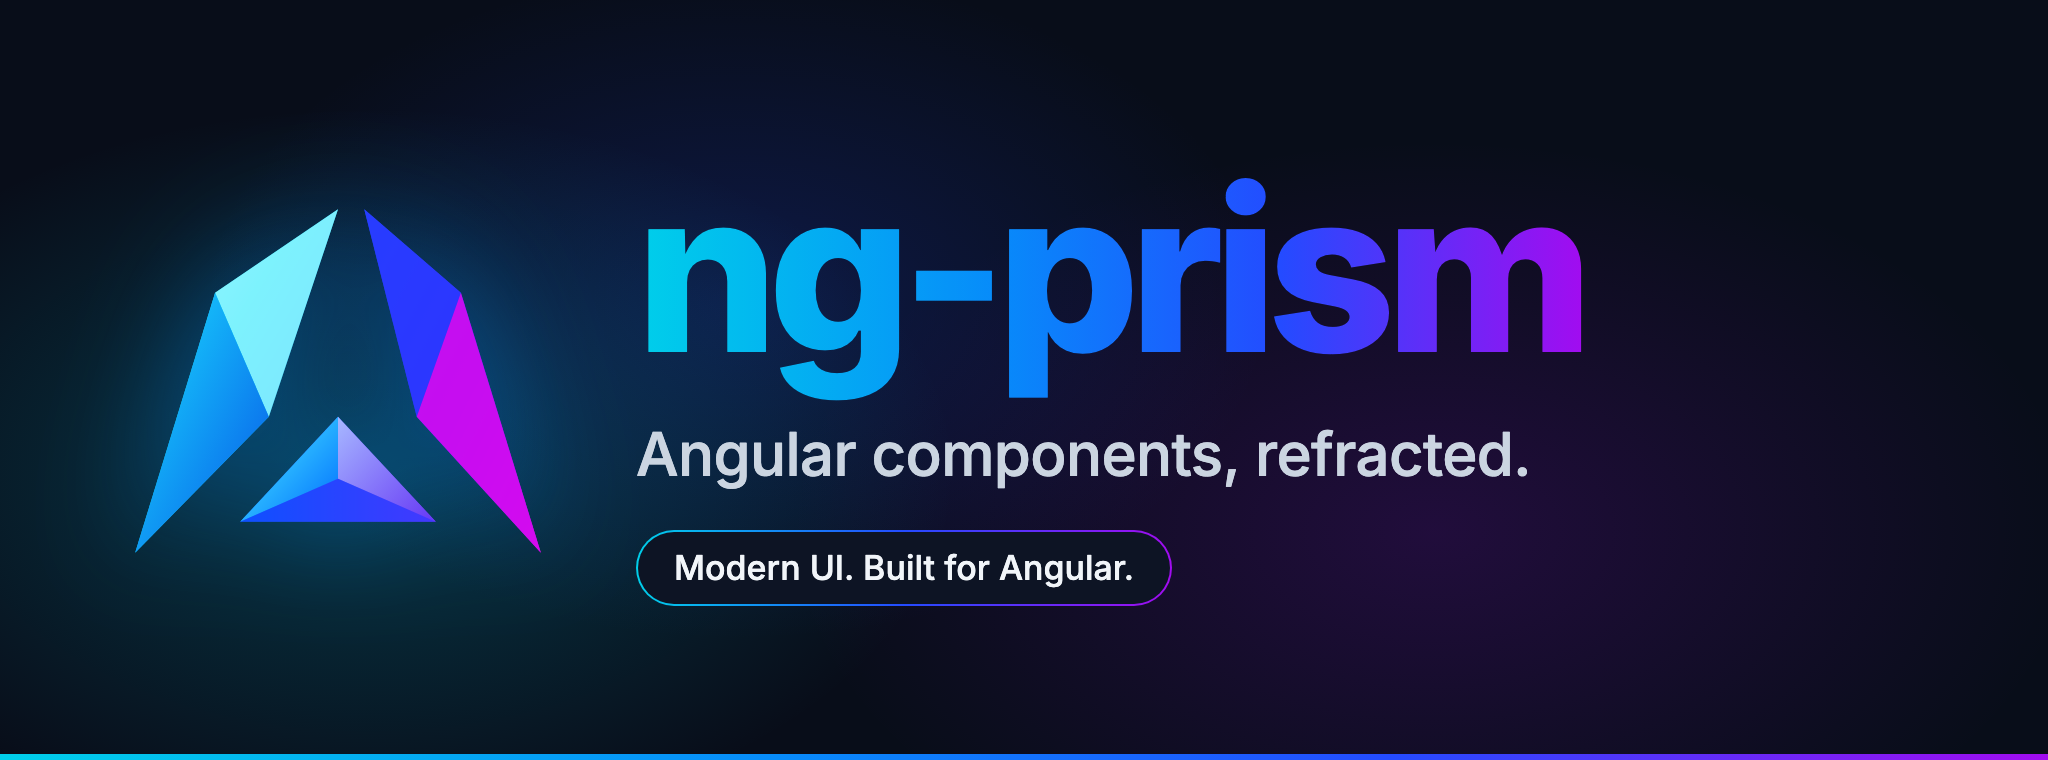
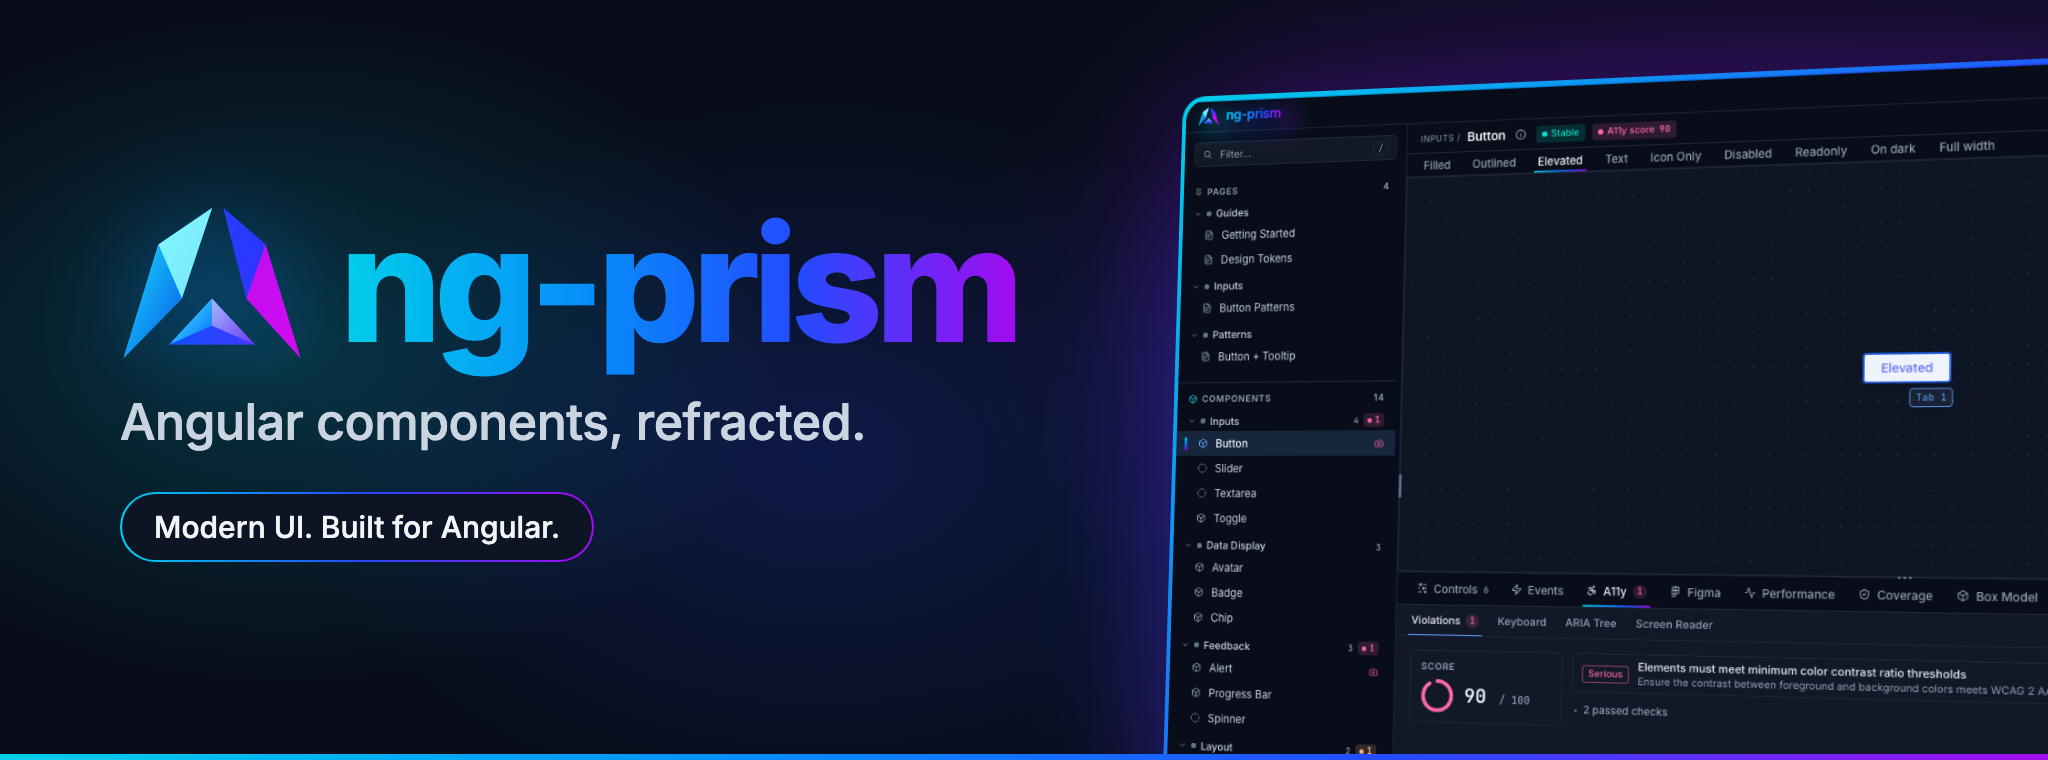
docs(brand): README cover with the new shell
The cover shows the dark shell again, turned towards the brand on the right
and running off the edges, as the old cover did. The wordmark and the mark
share a row to make room. The app picture is a committed screenshot of the
demo styleguide, so the render script stays offline.

diff --git a/docs/assets/brand/cover.html b/docs/assets/brand/cover.html
@@ -20,11 +20,10 @@
             .cover {
                 position: relative;
                 display: flex;
-                gap: 44px;
                 align-items: center;
                 width: 1024px;
                 height: 380px;
-                padding: 0 64px;
+                padding: 0 0 0 60px;
                 overflow: hidden;
                 color: #f1f5f9;
                 background: #080d19;
@@ -34,10 +33,11 @@
                 inset: 0;
                 content: '';
                 background:
-                    radial-gradient(420px 260px at 18% 62%, rgba(0, 207, 234, 0.22), transparent 70%),
-                    radial-gradient(380px 240px at 36% 40%, rgba(36, 75, 255, 0.2), transparent 70%),
-                    radial-gradient(460px 280px at 70% 70%, rgba(162, 12, 240, 0.16), transparent 70%);
+                    radial-gradient(360px 240px at 14% 46%, rgba(0, 207, 234, 0.2), transparent 70%),
+                    radial-gradient(380px 260px at 40% 60%, rgba(36, 75, 255, 0.2), transparent 70%),
+                    radial-gradient(520px 320px at 82% 40%, rgba(162, 12, 240, 0.2), transparent 70%);
             }
+            /* Drawn after the shot, so the brand edge runs over its foot. */
             .cover::after {
                 position: absolute;
                 inset: auto 0 0;
@@ -45,23 +45,27 @@
                 content: '';
                 background: linear-gradient(90deg, #00cfea 0%, #078bfa 38%, #244bff 68%, #a20cf0 100%);
             }
-            .mark {
-                position: relative;
-                flex: none;
-                width: 210px;
-                height: 177px;
-                filter: drop-shadow(0 0 28px rgba(7, 139, 250, 0.45));
-            }
             .text {
                 position: relative;
                 display: flex;
                 flex-direction: column;
-                gap: 14px;
+                gap: 12px;
+            }
+            .title {
+                display: flex;
+                gap: 18px;
+                align-items: center;
+            }
+            .mark {
+                flex: none;
+                width: 92px;
+                height: 77px;
+                filter: drop-shadow(0 0 22px rgba(7, 139, 250, 0.5));
             }
             .wordmark {
                 padding-bottom: 0.14em;
                 margin-bottom: -0.14em;
-                font-size: 112px;
+                font-size: 80px;
                 font-weight: 800;
                 line-height: 1.05;
                 letter-spacing: -0.045em;
@@ -71,16 +75,16 @@
                 background-clip: text;
             }
             .tagline {
-                font-size: 30px;
+                font-size: 25px;
                 font-weight: 500;
                 letter-spacing: -0.01em;
                 color: #cbd5e1;
             }
             .pill {
                 align-self: flex-start;
-                margin-top: 6px;
-                padding: 8px 18px;
-                font-size: 17px;
+                margin-top: 8px;
+                padding: 7px 16px;
+                font-size: 15px;
                 font-weight: 500;
                 color: #f1f5f9;
                 border-radius: 999px;
@@ -88,6 +92,27 @@
                     linear-gradient(#0d1424, #0d1424) padding-box,
                     linear-gradient(90deg, #00cfea, #244bff, #a20cf0) border-box;
                 border: 1.5px solid transparent;
+            }
+            /* The app, turned towards the brand on the left and running off the
+               right and bottom edges. */
+            .shot {
+                position: absolute;
+                top: 46px;
+                left: 586px;
+                width: 600px;
+                padding: 1.5px;
+                border-radius: 12px;
+                background: linear-gradient(135deg, #00cfea 0%, #244bff 50%, #a20cf0 100%);
+                box-shadow:
+                    0 40px 90px -24px rgba(36, 75, 255, 0.6),
+                    0 0 70px rgba(162, 12, 240, 0.22);
+                transform: perspective(1500px) rotateY(-20deg) rotateX(5deg);
+                transform-origin: 0 50%;
+            }
+            .shot img {
+                display: block;
+                width: 100%;
+                border-radius: 10.5px;
             }
             .lockup {
                 display: inline-flex;
@@ -115,51 +140,55 @@
     </head>
     <body>
         <div class="cover" id="cover">
-            <svg class="mark" xmlns="http://www.w3.org/2000/svg" viewBox="80 38 352 296" aria-hidden="true">
-                <defs>
-                    <linearGradient id="leftMain" x1="0" y1="0" x2="1" y2="1">
-                        <stop offset="0" stop-color="#8EF8FF" />
-                        <stop offset=".42" stop-color="#00D8F7" />
-                        <stop offset="1" stop-color="#0877FF" />
-                    </linearGradient>
-                    <linearGradient id="leftShade" x1="0" y1="0" x2="1" y2="1">
-                        <stop offset="0" stop-color="#19DFFF" />
-                        <stop offset="1" stop-color="#0755E8" />
-                    </linearGradient>
-                    <linearGradient id="rightMain" x1="0" y1="0" x2="1" y2="1">
-                        <stop offset="0" stop-color="#174EFF" />
-                        <stop offset=".55" stop-color="#332BFF" />
-                        <stop offset="1" stop-color="#E20BEF" />
-                    </linearGradient>
-                    <linearGradient id="innerLeft" x1="0" y1="0" x2="1" y2="1">
-                        <stop offset="0" stop-color="#4CF4FF" />
-                        <stop offset="1" stop-color="#006BFF" />
-                    </linearGradient>
-                    <linearGradient id="innerRight" x1="0" y1="0" x2="1" y2="1">
-                        <stop offset="0" stop-color="#A7B8FF" />
-                        <stop offset="1" stop-color="#6637F5" />
-                    </linearGradient>
-                    <linearGradient id="innerBase" x1="0" y1="0" x2="1" y2="0">
-                        <stop offset="0" stop-color="#086AFF" />
-                        <stop offset="1" stop-color="#7B37FF" />
-                    </linearGradient>
-                </defs>
-                <polygon points="256,42 153,112 86,330 198,216" fill="url(#leftMain)" />
-                <polygon points="256,42 198,216 153,112" fill="#A0F8FF" opacity=".78" />
-                <polygon points="153,112 198,216 86,330" fill="url(#leftShade)" />
-                <polygon points="278,42 359,112 426,330 322,216" fill="url(#rightMain)" />
-                <polygon points="278,42 322,216 359,112" fill="#2C38FF" opacity=".8" />
-                <polygon points="359,112 322,216 426,330" fill="#D20BEF" opacity=".92" />
-                <polygon points="256,216 174,304 338,304" fill="url(#innerBase)" />
-                <polygon points="256,216 256,268 174,304" fill="url(#innerLeft)" />
-                <polygon points="256,216 338,304 256,268" fill="url(#innerRight)" />
-                <polygon points="174,304 256,268 338,304" fill="#143BFF" opacity=".55" />
-            </svg>
             <div class="text">
-                <span class="wordmark">ng-prism</span>
+                <div class="title">
+                    <svg class="mark" xmlns="http://www.w3.org/2000/svg" viewBox="80 38 352 296" aria-hidden="true">
+                        <defs>
+                            <linearGradient id="leftMain" x1="0" y1="0" x2="1" y2="1">
+                                <stop offset="0" stop-color="#8EF8FF" />
+                                <stop offset=".42" stop-color="#00D8F7" />
+                                <stop offset="1" stop-color="#0877FF" />
+                            </linearGradient>
+                            <linearGradient id="leftShade" x1="0" y1="0" x2="1" y2="1">
+                                <stop offset="0" stop-color="#19DFFF" />
+                                <stop offset="1" stop-color="#0755E8" />
+                            </linearGradient>
+                            <linearGradient id="rightMain" x1="0" y1="0" x2="1" y2="1">
+                                <stop offset="0" stop-color="#174EFF" />
+                                <stop offset=".55" stop-color="#332BFF" />
+                                <stop offset="1" stop-color="#E20BEF" />
+                            </linearGradient>
+                            <linearGradient id="innerLeft" x1="0" y1="0" x2="1" y2="1">
+                                <stop offset="0" stop-color="#4CF4FF" />
+                                <stop offset="1" stop-color="#006BFF" />
+                            </linearGradient>
+                            <linearGradient id="innerRight" x1="0" y1="0" x2="1" y2="1">
+                                <stop offset="0" stop-color="#A7B8FF" />
+                                <stop offset="1" stop-color="#6637F5" />
+                            </linearGradient>
+                            <linearGradient id="innerBase" x1="0" y1="0" x2="1" y2="0">
+                                <stop offset="0" stop-color="#086AFF" />
+                                <stop offset="1" stop-color="#7B37FF" />
+                            </linearGradient>
+                        </defs>
+                        <polygon points="256,42 153,112 86,330 198,216" fill="url(#leftMain)" />
+                        <polygon points="256,42 198,216 153,112" fill="#A0F8FF" opacity=".78" />
+                        <polygon points="153,112 198,216 86,330" fill="url(#leftShade)" />
+                        <polygon points="278,42 359,112 426,330 322,216" fill="url(#rightMain)" />
+                        <polygon points="278,42 322,216 359,112" fill="#2C38FF" opacity=".8" />
+                        <polygon points="359,112 322,216 426,330" fill="#D20BEF" opacity=".92" />
+                        <polygon points="256,216 174,304 338,304" fill="url(#innerBase)" />
+                        <polygon points="256,216 256,268 174,304" fill="url(#innerLeft)" />
+                        <polygon points="256,216 338,304 256,268" fill="url(#innerRight)" />
+                        <polygon points="174,304 256,268 338,304" fill="#143BFF" opacity=".55" />
+                    </svg>
+                    <span class="wordmark">ng-prism</span>
+                </div>
                 <span class="tagline">Angular components, refracted.</span>
                 <span class="pill">Modern UI. Built for Angular.</span>
             </div>
+            <!-- The dark shell, captured from the demo styleguide (test-workspace) at 1440 × 900. -->
+            <div class="shot"><img src="cover-app.png" alt="" /></div>
         </div>
         <div class="lockup" id="lockup">
             <svg xmlns="http://www.w3.org/2000/svg" viewBox="80 38 352 296" aria-hidden="true">
